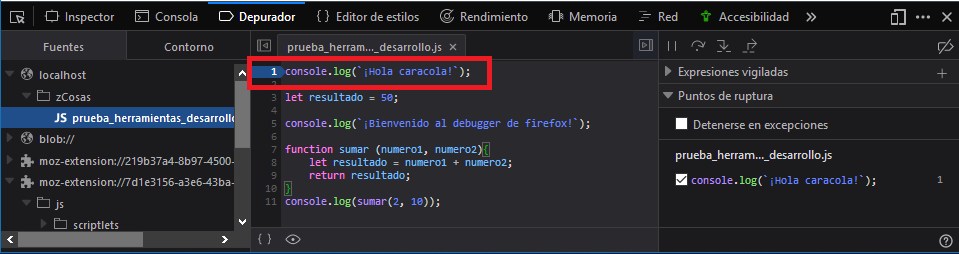
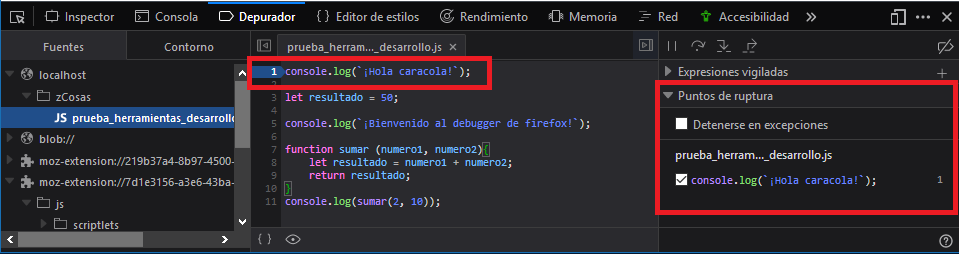
Mejorados explicación de código fuente y breakpoints

Changed region(s): [[0.6653, 0.3031, 1.0, 0.8543]]

diff --git a/Páginas/debugger_breakpoint.html b/Páginas/debugger_breakpoint.html
@@ -36,13 +36,25 @@
             <img src="../Recursos/depurador.png" alt="Ubicación del depurador."/>
         </p>
         <p>
-            Para añadir uno o varios breakpoints y observar el comportamiento del código, sólo debemos hacer click en la línea de código que queremos observar:
+            Para cargar el archivo de JavaScript en el debugger podemos buscarlo manualmente en el árbol de la izquierda, o utilizar el buscador si hay muchos archivos y es difícil de encontrar:
+        </p>
+        <p>
+            <img src="../Recursos/buscar_js.png" alt="Cargar archivos JavaScript."/>
+        </p>
+        <p>
+            Para añadir uno o varios breakpoints y observar el comportamiento del código, sólo debemos hacer click en la línea de código que queremos observar y ésta pasará a la lista de puntos de ruptura, que se encuentra a la derecha:
         </p>
         <p>
             <img src="../Recursos/breakpoint.png" alt="Añadir breakpoints."/>
         </p>
         <p>
-            Para ir moviéndonos por el debugger, utilizaremos estos botones:
+            Podemos gestionar los puntos de ruptura en la lista activando o desactivando los puntos de ruptura con los checkbox que tienen a la izquierda, también podemos eliminarlos de la lista situando el ratón a su derecha y haciendo click en la "x":
+        </p>
+        <p>
+            <img src="../Recursos/gestionar_breakpoints.png" alt="Gestión de los breakpoints en la lista."/>
+        </p>
+        <p>
+            A continuación debemos pulsar F5 o refrescar la página de otra manera para comenzar a depurar, y para ir moviéndonos por el debugger, utilizaremos estos botones:
         </p>
         <p>
             <img src="../Recursos/botones.png" alt="HTML y CSS en el inspector."/>
@@ -51,8 +63,14 @@
             <li> 1: Pausa y reanuda la ejecución del debugger.</li>
             <li> 2: Se mueve al siguiente paso del código.</li>
             <li> 3: Entra dentro de una función.</li>
-            <li> 4: Botón para salir.</li>
+            <li> 4: Sale de la función.</li>
         </ul>
+        <p>
+            También podemos añadir un punto de ruptura condicional, con el que podremos parar el debugger estableciendo una concidión:
+        </p>
+        <p>
+            <img src="../Recursos/conditional_breakpoint.png" alt="Añadiendo punto de ruptura condicional."/>
+        </p>
         
         
     </div>

diff --git a/Páginas/codigo_fuente.html b/Páginas/codigo_fuente.html
@@ -52,6 +52,12 @@
             Si deseamos modificar el código fuente sólo tenemos que seleccionar qué parte de la página deseamos cambiar dentro del inspector y modificarla,
              podemos modificar tanto la parte de HTML como la de CSS.
         </p>
+        <p>
+            Por ejemplo, podemos editar el párrafo anterior:
+        </p>
+        <p>
+            <img src="../Recursos/modificar_código.gif" alt="Modificando el código desde el inspector."/>
+        </p>
     </div>
     
 </body>
